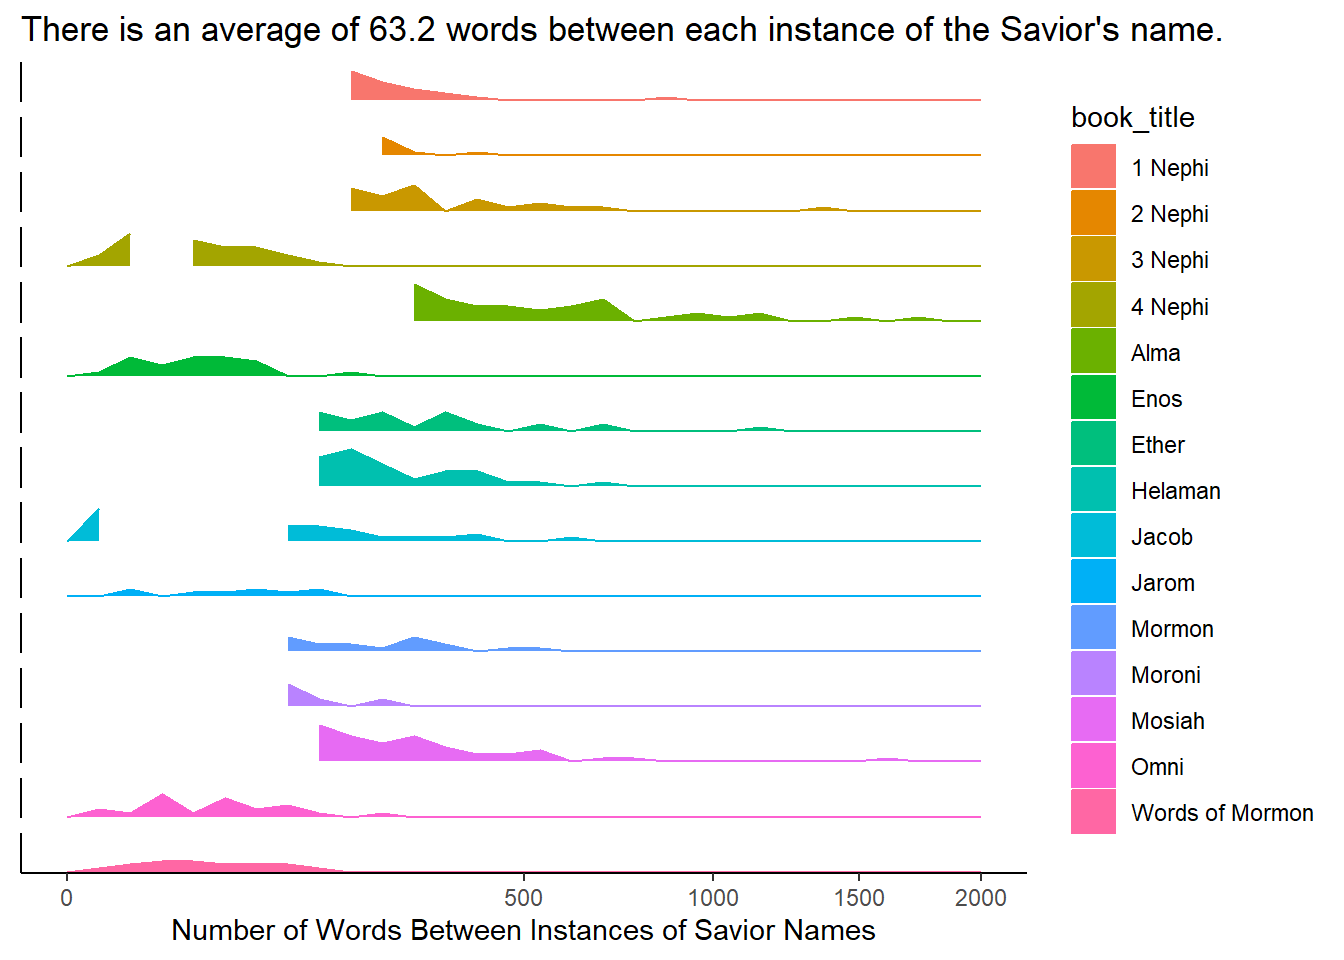
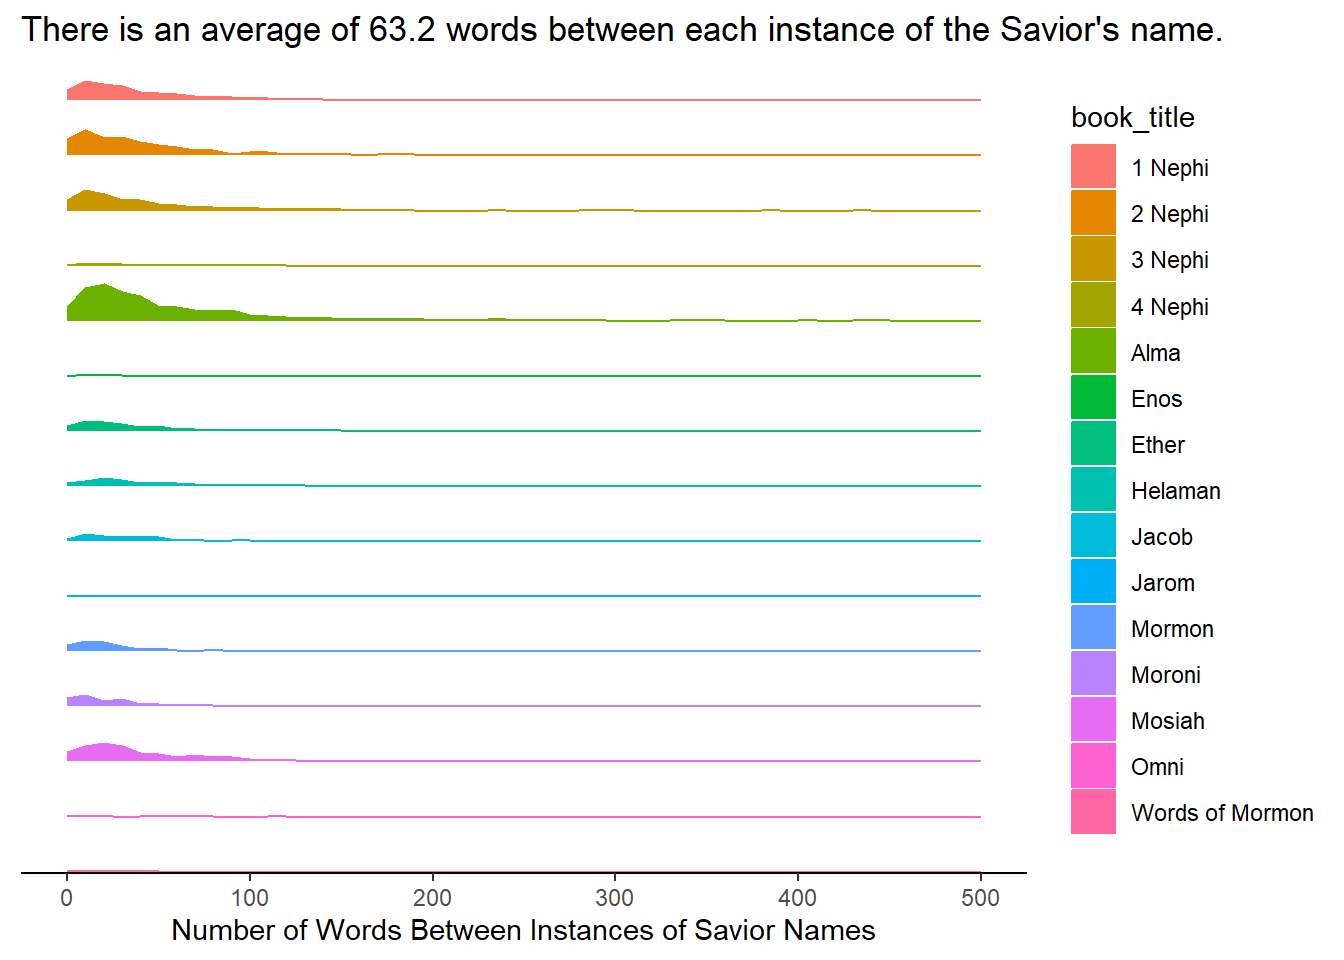
Addressed issue #8

diff --git a/week_10/Distance Between pt 2.html b/week_10/Distance Between pt 2.html
@@ -156,29 +156,25 @@ dbl  (6): volume_id, book_id, chapter_id, verse_id, chapter_number, verse_nu...
 <span id="cb6-17"><a href="#cb6-17"></a>  <span class="fu">unnest</span>(distance_between)</span></code><button title="Copy to Clipboard" class="code-copy-button"><i class="bi"></i></button></pre></div>
 </details>
 </div>
-<div class="cell">
+<div class="cell" data-figure-height="12" data-figure-width="5">
 <details class="code-fold">
 <summary>Code</summary>
 <div class="sourceCode cell-code" id="cb7"><pre class="sourceCode numberSource r number-lines code-with-copy"><code class="sourceCode r"><span id="cb7-1"><a href="#cb7-1"></a><span class="fu">ggplot</span>(scriptures2, <span class="fu">aes</span>(<span class="at">x =</span> distance_between, <span class="at">fill =</span> book_title, <span class="at">color =</span> book_title)) <span class="sc">+</span></span>
-<span id="cb7-2"><a href="#cb7-2"></a>  <span class="fu">geom_area</span>(<span class="at">stat =</span> <span class="st">"bin"</span>) <span class="sc">+</span></span>
+<span id="cb7-2"><a href="#cb7-2"></a>  <span class="fu">geom_area</span>(<span class="at">stat =</span> <span class="st">"bin"</span>, <span class="at">binwidth =</span> <span class="dv">10</span>) <span class="sc">+</span></span>
 <span id="cb7-3"><a href="#cb7-3"></a>  <span class="fu">labs</span>(<span class="at">x =</span> <span class="st">"Number of Words Between Instances of Savior Names"</span>,</span>
 <span id="cb7-4"><a href="#cb7-4"></a>       <span class="at">y =</span> <span class="cn">NULL</span>, </span>
 <span id="cb7-5"><a href="#cb7-5"></a>       <span class="at">title =</span> <span class="st">"There is an average of 63.2 words between each instance of the Savior's name."</span>) <span class="sc">+</span></span>
-<span id="cb7-6"><a href="#cb7-6"></a>  <span class="fu">scale_y_continuous</span>(<span class="at">limits =</span> <span class="fu">c</span>(<span class="dv">0</span>, <span class="dv">10</span>),</span>
-<span id="cb7-7"><a href="#cb7-7"></a>                     <span class="at">labels =</span> <span class="cn">NULL</span>, ) <span class="sc">+</span></span>
-<span id="cb7-8"><a href="#cb7-8"></a>  <span class="fu">scale_x_continuous</span>(<span class="at">trans =</span> <span class="st">"sqrt"</span>,</span>
-<span id="cb7-9"><a href="#cb7-9"></a>                     <span class="at">limits =</span> <span class="fu">c</span>(<span class="dv">0</span>, <span class="dv">2000</span>)) <span class="sc">+</span></span>
-<span id="cb7-10"><a href="#cb7-10"></a>  <span class="fu">theme_classic</span>() <span class="sc">+</span></span>
-<span id="cb7-11"><a href="#cb7-11"></a>  <span class="fu">theme</span>(<span class="at">axis.ticks.y =</span> <span class="fu">element_blank</span>(),</span>
-<span id="cb7-12"><a href="#cb7-12"></a>        <span class="at">strip.text =</span> <span class="fu">element_blank</span>(),</span>
-<span id="cb7-13"><a href="#cb7-13"></a>        <span class="at">legend.title =</span> <span class="fu">element_text</span>()) <span class="sc">+</span></span>
-<span id="cb7-14"><a href="#cb7-14"></a>  <span class="fu">facet_grid</span>(book_title<span class="sc">~</span>.)</span></code><button title="Copy to Clipboard" class="code-copy-button"><i class="bi"></i></button></pre></div>
+<span id="cb7-6"><a href="#cb7-6"></a>  <span class="fu">scale_y_continuous</span>(<span class="at">labels =</span> <span class="cn">NULL</span>) <span class="sc">+</span></span>
+<span id="cb7-7"><a href="#cb7-7"></a>  <span class="fu">scale_x_continuous</span>(<span class="at">limits =</span> <span class="fu">c</span>(<span class="dv">0</span>, <span class="dv">500</span>)) <span class="sc">+</span></span>
+<span id="cb7-8"><a href="#cb7-8"></a>  <span class="fu">theme_classic</span>() <span class="sc">+</span></span>
+<span id="cb7-9"><a href="#cb7-9"></a>  <span class="fu">theme</span>(<span class="at">axis.ticks.y =</span> <span class="fu">element_blank</span>(),</span>
+<span id="cb7-10"><a href="#cb7-10"></a>        <span class="at">axis.line.y =</span> <span class="fu">element_blank</span>(),</span>
+<span id="cb7-11"><a href="#cb7-11"></a>        <span class="at">strip.text =</span> <span class="fu">element_blank</span>(),</span>
+<span id="cb7-12"><a href="#cb7-12"></a>        <span class="at">legend.title =</span> <span class="fu">element_text</span>()) <span class="sc">+</span></span>
+<span id="cb7-13"><a href="#cb7-13"></a>  <span class="fu">facet_grid</span>(book_title<span class="sc">~</span>.)</span></code><button title="Copy to Clipboard" class="code-copy-button"><i class="bi"></i></button></pre></div>
 </details>
 <div class="cell-output cell-output-stderr">
-<pre><code>`stat_bin()` using `bins = 30`. Pick better value with `binwidth`.</code></pre>
-</div>
-<div class="cell-output cell-output-stderr">
-<pre><code>Warning: Removed 2 rows containing non-finite outside the scale range
+<pre><code>Warning: Removed 44 rows containing non-finite outside the scale range
 (`stat_bin()`).</code></pre>
 </div>
 <div class="cell-output-display">
@@ -190,11 +186,11 @@ dbl  (6): volume_id, book_id, chapter_id, verse_id, chapter_number, verse_nu...
 </div>
 <details class="code-fold">
 <summary>Code</summary>
-<div class="sourceCode cell-code" id="cb10"><pre class="sourceCode numberSource r number-lines code-with-copy"><code class="sourceCode r"><span id="cb10-1"><a href="#cb10-1"></a><span class="co"># mean_count &lt;- mean(word_count)</span></span>
-<span id="cb10-2"><a href="#cb10-2"></a><span class="co"># # 63.2</span></span>
-<span id="cb10-3"><a href="#cb10-3"></a><span class="co"># </span></span>
-<span id="cb10-4"><a href="#cb10-4"></a><span class="co"># word_tibble &lt;- tibble(word_count) %&gt;% </span></span>
-<span id="cb10-5"><a href="#cb10-5"></a><span class="co">#   filter(word_count &gt;= 0)</span></span></code><button title="Copy to Clipboard" class="code-copy-button"><i class="bi"></i></button></pre></div>
+<div class="sourceCode cell-code" id="cb9"><pre class="sourceCode numberSource r number-lines code-with-copy"><code class="sourceCode r"><span id="cb9-1"><a href="#cb9-1"></a><span class="co"># mean_count &lt;- mean(word_count)</span></span>
+<span id="cb9-2"><a href="#cb9-2"></a><span class="co"># # 63.2</span></span>
+<span id="cb9-3"><a href="#cb9-3"></a><span class="co"># </span></span>
+<span id="cb9-4"><a href="#cb9-4"></a><span class="co"># word_tibble &lt;- tibble(word_count) %&gt;% </span></span>
+<span id="cb9-5"><a href="#cb9-5"></a><span class="co">#   filter(word_count &gt;= 0)</span></span></code><button title="Copy to Clipboard" class="code-copy-button"><i class="bi"></i></button></pre></div>
 </details>
 </div>
 

diff --git a/week_10/Distance Between pt 2.html.md b/week_10/Distance Between pt 2.html.md
@@ -85,20 +85,19 @@ scriptures2 <- scriptures %>%
 ```
 :::
 
-::: {.cell}
+::: {.cell figure-height='12' figure-width='5'}
 
 ```{.r .cell-code}
 ggplot(scriptures2, aes(x = distance_between, fill = book_title, color = book_title)) +
-  geom_area(stat = "bin") +
+  geom_area(stat = "bin", binwidth = 10) +
   labs(x = "Number of Words Between Instances of Savior Names",
        y = NULL, 
        title = "There is an average of 63.2 words between each instance of the Savior's name.") +
-  scale_y_continuous(limits = c(0, 10),
-                     labels = NULL, ) +
-  scale_x_continuous(trans = "sqrt",
-                     limits = c(0, 2000)) +
+  scale_y_continuous(labels = NULL) +
+  scale_x_continuous(limits = c(0, 500)) +
   theme_classic() +
   theme(axis.ticks.y = element_blank(),
+        axis.line.y = element_blank(),
         strip.text = element_blank(),
         legend.title = element_text()) +
   facet_grid(book_title~.)
@@ -107,16 +106,7 @@ ggplot(scriptures2, aes(x = distance_between, fill = book_title, color = book_ti
 ::: {.cell-output .cell-output-stderr}
 
 ```
-`stat_bin()` using `bins = 30`. Pick better value with `binwidth`.
-```
-
-
-:::
-
-::: {.cell-output .cell-output-stderr}
-
-```
-Warning: Removed 2 rows containing non-finite outside the scale range
+Warning: Removed 44 rows containing non-finite outside the scale range
 (`stat_bin()`).
 ```
 
